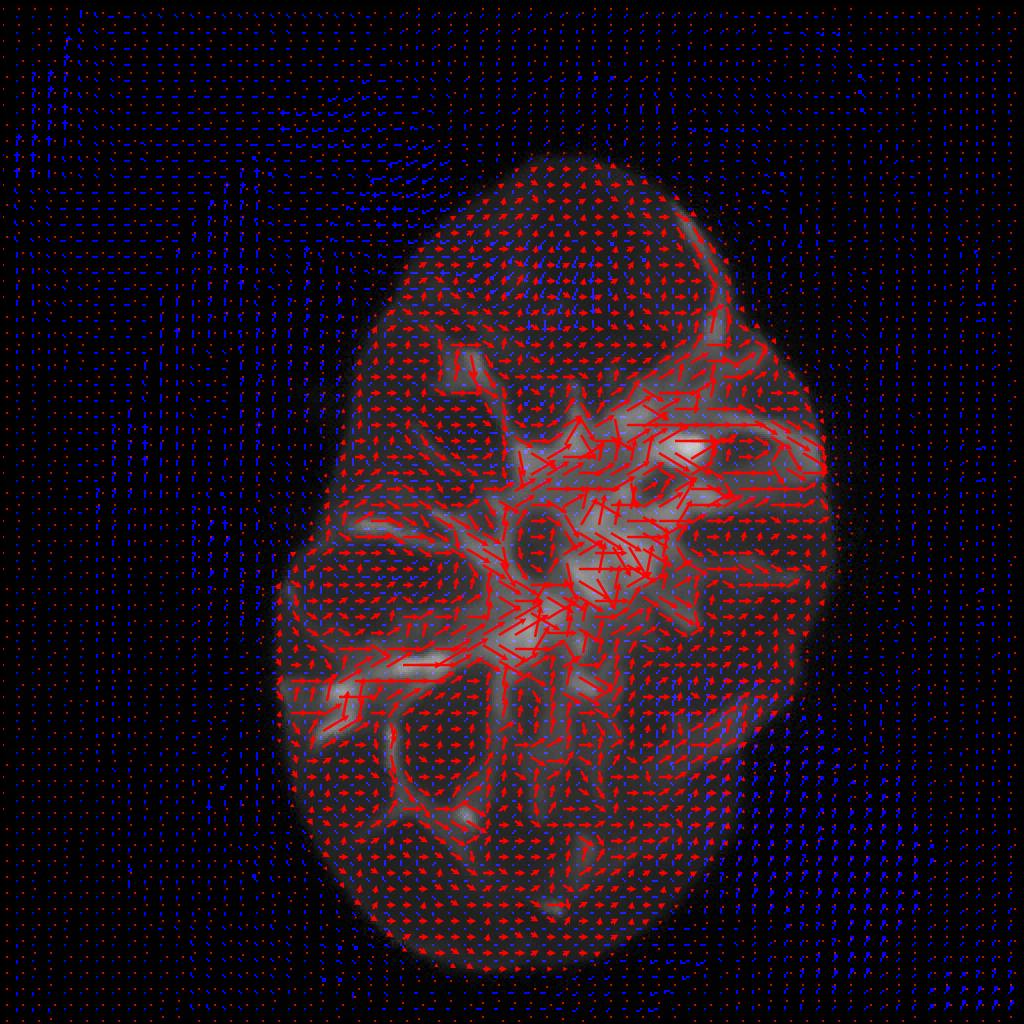
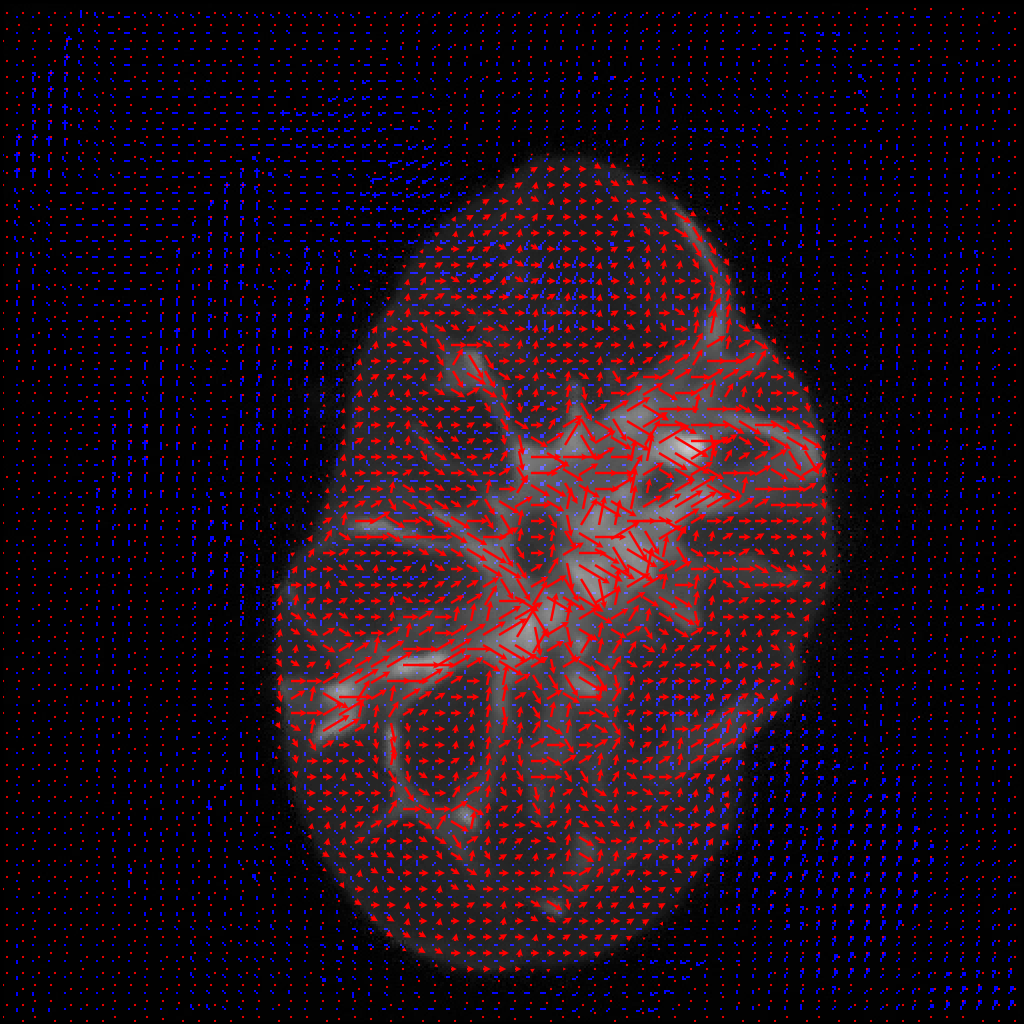
Fixed the vector overlay output + new image outputs + minor comment changes

Changed region(s): [[0.2812, 0.1875, 0.8125, 0.9688], [0.3438, 0.8125, 0.4062, 0.8438], [0.7812, 0.5625, 0.8125, 0.5938]]

diff --git a/lamin_role.py b/lamin_role.py
@@ -459,7 +459,13 @@ while(cap.isOpened()):
     # Divide each element by the maximum value, normalizing all vector lengths (*3 for visualization purposes only)
     avg_px_intensities_normalized = (avg_px_intensities/max_intensity)
 
-    # Define the position and length of each vector (using list comprehensions)
+    # Store the initial vector data for the vector overlap image later on
+    old_x_positions = x_positions
+    old_y_positions = y_positions
+    old_dx_vals = np.array(dx_vals)
+    old_dy_vals = np.array(dy_vals)
+
+    # Define the (new) position and length of each vector (using list comprehensions)
     x_positions = [vectors[i][j][0][0] for i in range(cells_per_row_column) for j in range(cells_per_row_column)]
     y_positions = [vectors[i][j][0][1] for i in range(cells_per_row_column) for j in range(cells_per_row_column)]
     dx_vals = [(vectors[i][j][1][0]-vectors[i][j][0][0])*avg_px_intensities_normalized[i][j] for i in range(cells_per_row_column) for j in range(cells_per_row_column)]
@@ -550,11 +556,11 @@ while(cap.isOpened()):
     # Flatten the lamin-density array to line up the data with the displacement vector array
     heatmap_vectors = heatmap_vectors.flatten()
 
-    # Compute the dot product, returned as an array of length len(vectors)
+    # Compute the dot product, returned as an array of length len(heatmap_vectors)
     # Use keyword arguments to ensure correct function usage.
     dot_prod_result = dot_product(physical=heatmap_vectors,     # Physical gradient vectors
-                                temporal=disp_vectors,  # Displacement vectors
-                                inverted=inversion)     # Rotate physical gradient vectors by 90 degrees?
+                                temporal=disp_vectors,          # Displacement vectors
+                                inverted=inversion)             # Rotate physical gradient vectors by 90 degrees?
 
     # Get max value in the dot product array
     dot_prod_max = max(dot_prod_result)
@@ -635,36 +641,35 @@ while(cap.isOpened()):
     cv2.imshow(f"Sparse Optical Flow: frames {counter-1} to {counter}",output)
     cv2.waitKey(img_delay)
 
-    # IMPORTANT: THIS INCORRECTLY VERLAYS THE *FINAL* GRADIENT VECTORS ON TOP OF THE DISPLACEMENT VECTORS
     # ---------- Overlay both vector sets ----------
     # Define output image parameters
-    # screen_dpi = 227
-    # plt.figure(figsize=(len(img_vector)/screen_dpi,len(img_vector)/screen_dpi),dpi=screen_dpi)
-    # plt.imshow(
-    #     output,                 # Image name
-    #     alpha=1.0,              # Transparency setting
-    #     cmap="Greys_r",         # Grayscale colour map
-    #     origin="upper",         # Image origin in the top left corner
-    #     interpolation="none",   # Image blurring off
-    #     resample=False,         # Image resampling off
-    #     aspect="equal")         # Image distorting off
+    screen_dpi = 227
+    plt.figure(figsize=(len(img_vector)/screen_dpi,len(img_vector)/screen_dpi),dpi=screen_dpi)
+    plt.imshow(
+        output,                 # Image name
+        alpha=1.0,              # Transparency setting
+        cmap="Greys_r",         # Grayscale colour map
+        origin="upper",         # Image origin in the top left corner
+        interpolation="none",   # Image blurring off
+        resample=False,         # Image resampling off
+        aspect="equal")         # Image distorting off
 
-    # # Draw the vectors
-    # plt.quiver(
-    #     x_positions,            # X coordinate of start point
-    #     y_positions,            # Y coordinate of start point
-    #     dx_vals,                # X-direction movement from start point to end point
-    #     dy_vals,                # Y-direction movement from start point to end point
-    #     color='r',              # Vector colour (red)
-    #     scale_units="dots",     # Vector scaling unit (pixels)
-    #     scale=0.4,              # Vector scaling factor
-    #     headwidth=3,            # Vector head width as a multiple of shaft width
-    #     headlength=3,           # Vector head length as a multiple of shaft length
-    #     headaxislength=2.5)     # Vector head length at shaft intersection
+    # Draw the vectors
+    plt.quiver(
+        old_x_positions,      # X coordinate of start point
+        old_y_positions,      # Y coordinate of start point
+        3*old_dx_vals,        # X-direction movement from start point to end point
+        3*old_dy_vals,        # Y-direction movement from start point to end point
+        color='r',            # Vector colour (red)
+        scale_units="dots",   # Vector scaling unit (pixels)
+        scale=0.4,            # Vector scaling factor
+        headwidth=3,          # Vector head width as a multiple of shaft width
+        headlength=3,         # Vector head length as a multiple of shaft length
+        headaxislength=2.5)   # Vector head length at shaft intersection
 
-    # # Finalize and display the vector image
-    # plt.subplots_adjust(left=0,right=1,bottom=0,top=1)
-    # plt.show()
+    # Finalize and display the vector image
+    plt.subplots_adjust(left=0,right=1,bottom=0,top=1)
+    plt.show()
     # ---------- Overlay both vector sets ----------
 
     # Saves output frames to video
